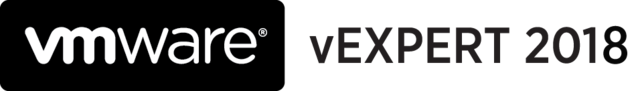
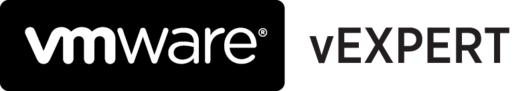
Update vexperts 2020

Changed region(s): [[0.0308, 0.0, 1.0, 1.0], [0.0, 0.967, 0.0308, 1.0], [0.0, 0.0, 0.0308, 0.022]]

diff --git a/cards.html b/cards.html
@@ -1,5 +1,5 @@
 ---
 layout: cards
 title: KB cards
-tags: cron extension vsphere privileges service python script systemd google director bash vra plugin troubleshoot gist openssl bookmark orchestrator vrealize certificate linux crontab automation iaas vro curl vami vmware vim api vcloud
+tags: linux script crontab vro bash bookmark systemd vami cron director extension curl vrealize vra api vmware openssl vcloud privileges troubleshoot vsphere service iaas certificate gist vim automation google plugin python orchestrator
 ---

diff --git a/_layouts/blog.html b/_layouts/blog.html
@@ -18,7 +18,7 @@ layout: default
                   {% include svg-icons.html %}
                 </p>
                 <p>
-                  <a href="https://lri.ovh"><img src="/images/vexpert-2.png" class="vexpert"></a>
+                  <a href="/about/"><img src="/images/vexpert.png" class="vexpert"></a>
                 </p>
             </div>
         </div>

diff --git a/_includes/aharlaut.md b/_includes/aharlaut.md
@@ -5,7 +5,12 @@ I'm currently focusing on Automation products such as **vRealize Automation** & 
 Passionate by scripting, I'm using **Python** and **Powershell** daily to automate actions on the "IaaS" platforms.
 
 
+<p class="center">
+    <a href="https://vexpert.vmware.com/directory/5293" target="_blank">
+        <img src="/images/vexpert.png" alt="vExpert logo" width="250">
+    </a>
+</p>
+
 ### Contacts
 
 Here is my [linkedin profile](https://www.linkedin.com/in/antoine-harlaut-a1b6baa5) to contact me.
-

diff --git a/_includes/lrivallain.md b/_includes/lrivallain.md
@@ -6,7 +6,7 @@ I work mainly on **VMware** based virtual infrastructures, "IaaS/PaaS" cloud com
 And as I might be a little lazy sometimes, I love automation concepts and I deal with **Python**, **Powershell**
 and/or **Bash** scripts daily.
 
-My **resume**: [**lri.ovh**](https://lri.ovh)
+My **resume**: [**ludovic.rivallain.fr**](https://ludovic.rivallain.fr)
 
 <p class="center">
     <a href="https://vexpert.vmware.com/directory/1741" target="_blank">

diff --git a/tag/devops.md b/tag/devops.md
@@ -1,0 +1,6 @@
+---
+layout: tagpage
+title: "Tag: devops"
+tag: devops
+robots: noindex
+---
